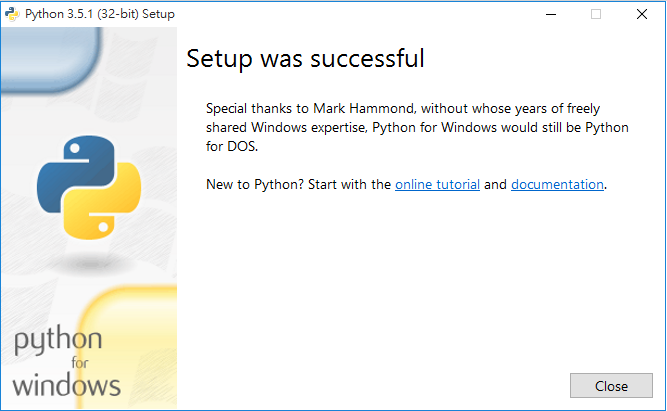
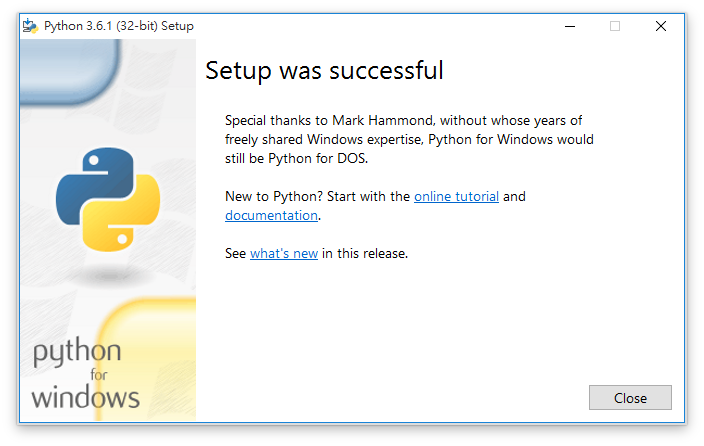
Tweak installation screens and text for Windows

diff --git a/pages/static/pages/posts/tutorials/installation.textbundle/text.md b/pages/static/pages/posts/tutorials/installation.textbundle/text.md
@@ -6,7 +6,7 @@ os_switch: true
 本節將引導你安裝並設定專案所需要的環境。我們會進行以下的步驟：
 
 1. 安裝 Git。
-2. 安裝 Python 3.5。
+2. 安裝 Python 3。
 
 ((( windows
 
@@ -38,7 +38,7 @@ os_switch: true
 
 ### 安裝 Python
 
-首先[下載 Python 3.5.1](https://www.python.org/ftp/python/3.5.1/python-3.5.1.exe)。下載後雙擊安裝檔。如果你看到確認執行應用程式的視窗：
+首先[下載 Python 3.6.1](https://www.python.org/ftp/python/3.6.1/python-3.6.1.exe)。下載後雙擊安裝檔。如果你看到確認執行應用程式的視窗：
 
 ![Python 確認執行視窗](assets/windows/python-run-alert.png)
 
@@ -52,7 +52,7 @@ os_switch: true
 
 ![Python 安裝根目錄畫面](assets/windows/python-installation-root.png)
 
-把「Customize install location」下面文字框內的文字同樣記到記事本裡。現在你的記事本應該會長這樣：
+把「Customize install location」下面文字框內的文字同樣記到記事本裡。現在你的記事本應該會類似這樣（路徑可能略有不同）：
 
 ![將 Python 安裝根目錄記錄於記事本](assets/windows/python-record-path.png)
 
@@ -60,11 +60,17 @@ os_switch: true
 
 ![Python 安裝完成畫面](assets/windows/python-installation-done.png)
 
-就代表安裝完成了！
+就代表安裝完成了！直接按 *Close* 關閉即可。
 
 ### 建立開發用捷徑
 
-接著請下載[這個檔案](http://d.pr/f/ZXEz)，然後按兩下執行它。還記得剛剛我們在記事本寫的那兩行嗎？請依序把它們拷貝起來，在出現的視窗裡依序**按右鍵選擇貼上**，然後按「確定」。看起來應該會像這樣：
+接著請下載[這個檔案](http://d.pr/f/SyJKva)，然後按兩下執行它。如果你看到確認執行應用程式的視窗：
+
+![create-env.vbs 確認執行視窗](assets/windows/create-env-run-alert.png)
+
+請選擇「執行」。
+
+還記得剛剛我們在記事本寫的那兩行嗎？請依序把它們拷貝起來，在出現的視窗裡依序**按右鍵選擇貼上**，然後按「確定」。看起來應該會像這樣：
 
 ![create-env.vbs 操作過程：Git 路徑](assets/windows/create-env-git-path-prompt.png)
 
